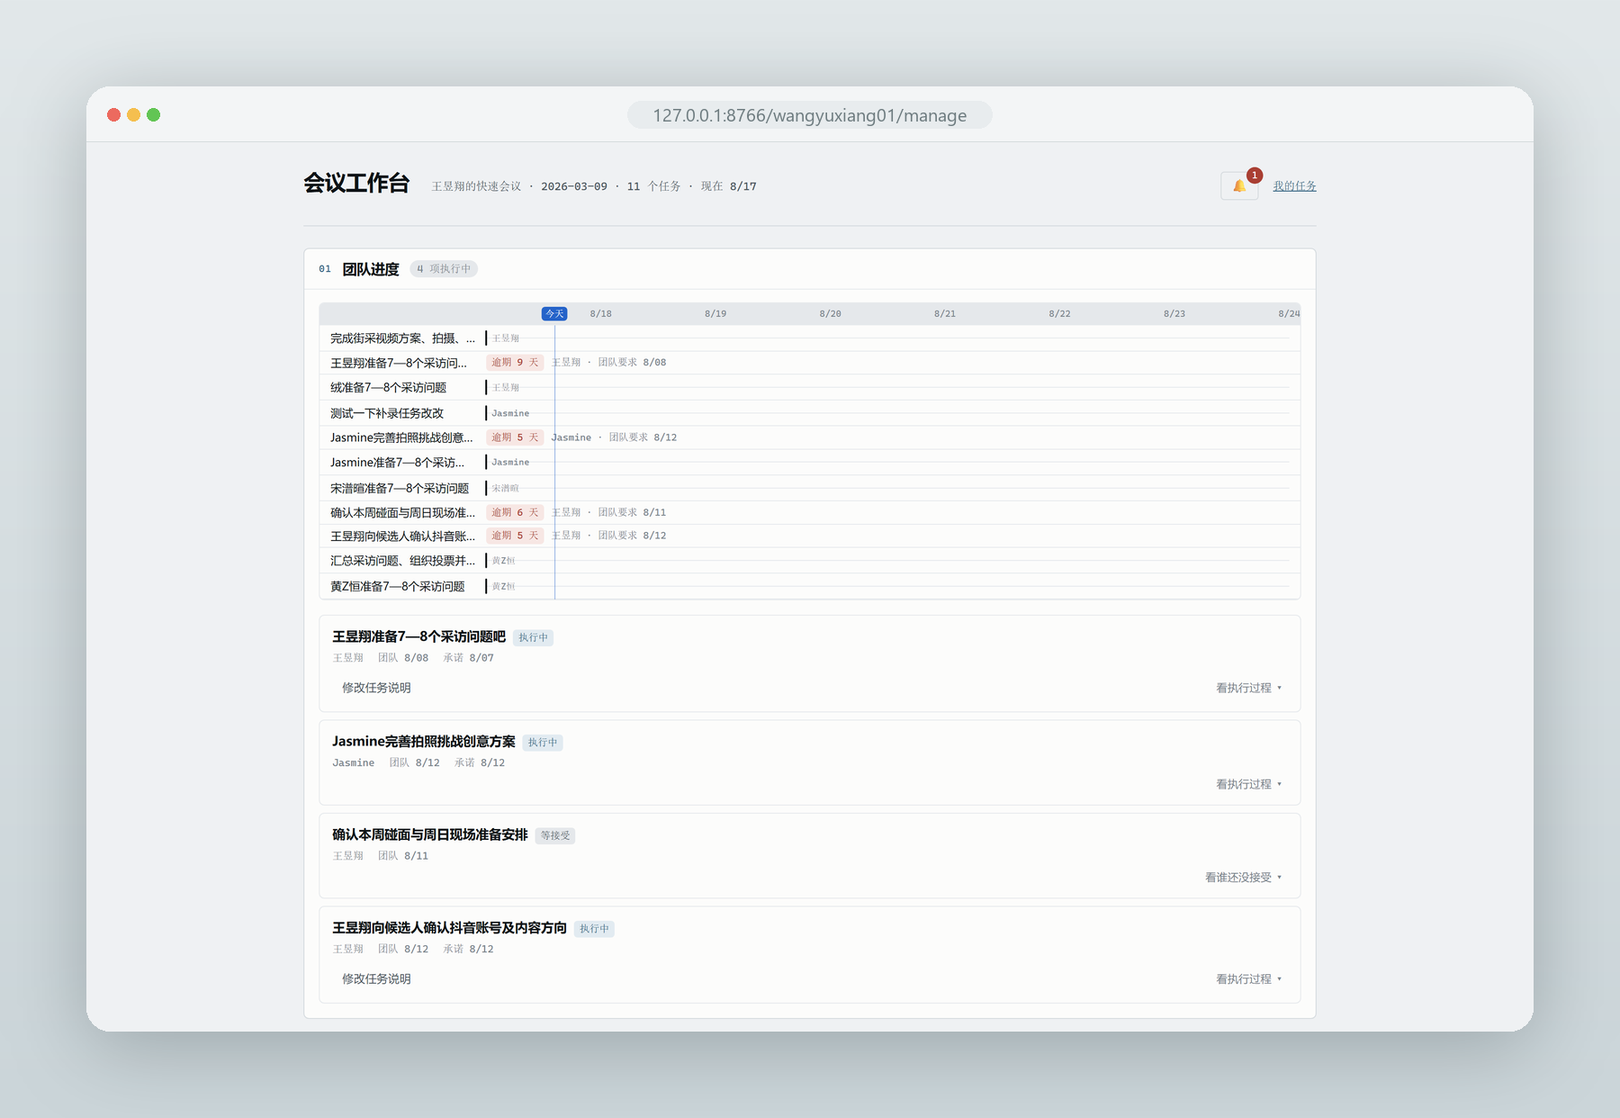
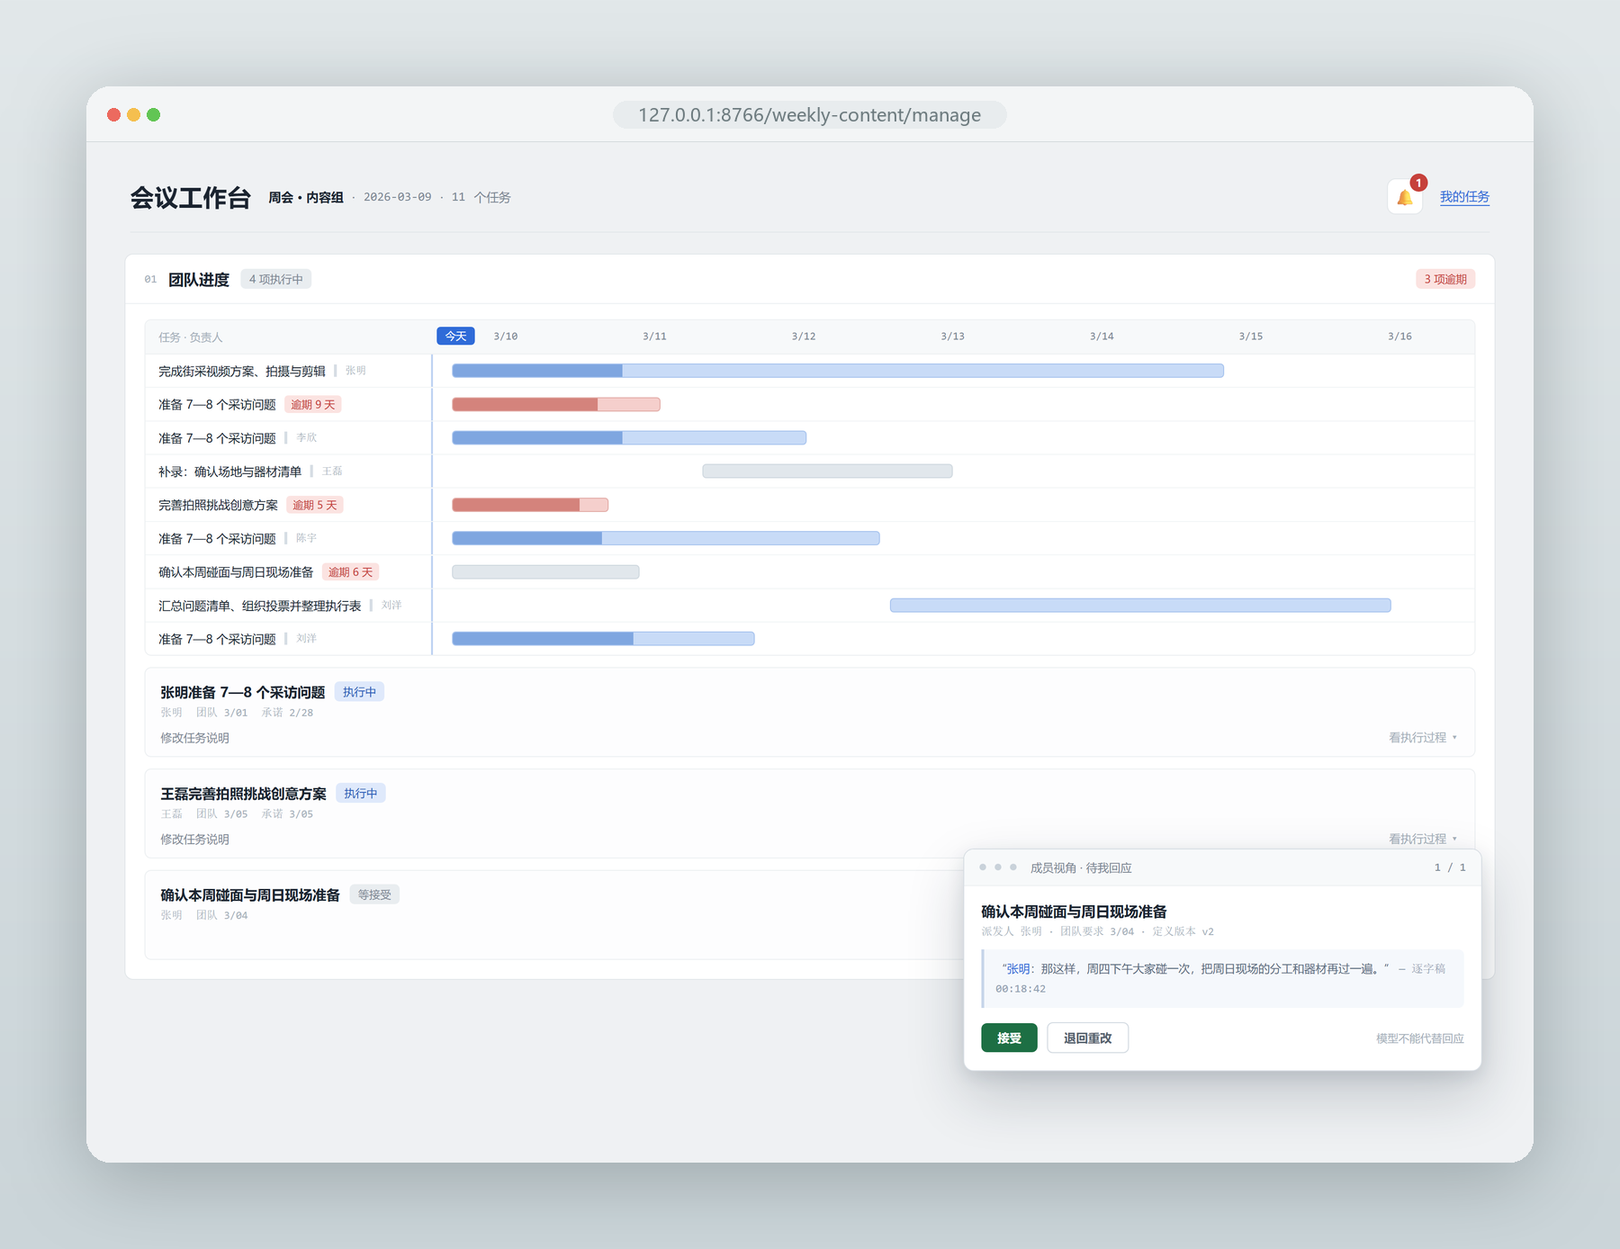
Replace the screenshots with a mock of a team that does not exist
The two images were real captures of a real meeting, so they carried five
colleagues' names, their overdue tasks and a verbatim line from the
transcript. This repository is public. The .gitignore already refuses
meeting_gold_*.json and fixtures/harvested/ for exactly that reason --
a screenshot walked the same content in through the front door.

Both images are now rebuilt from HTML in the product's own visual
language, filled with an invented content team. Nothing is blurred or
painted over, because a redaction still tells you a redaction happened;
there is simply no real person in the frame.

The coordinator view gained the thing the capture was missing: the
timeline had no bars in it, so the page read as an empty product. It now
shows work in flight, overdue, and waiting -- and a member's dispatch
card sits over the corner of it, carrying the source quote the task came
from and the accept-or-return control beside the words the model is not
allowed to press.

Rendered width drops to 820 so the smaller files actually render smaller.

diff --git a/README.md b/README.md
@@ -20,7 +20,7 @@ Recall-first · Human-gated · Versioned · Recoverable · Self-hosted
 </div>
 
 <p align="center">
-  <img src="docs/assets/coordinator-workbench.png" width="920" alt="会议负责人工作台：团队任务时间线、派发、验收与终稿" />
+  <img src="docs/assets/coordinator-workbench.png" width="820" alt="会议负责人工作台：团队任务时间线、派发、验收与终稿" />
 </p>
 
 <p align="center"><sub>🧭 <b>负责人视角</b> · 在同一条会议协作链中查看团队进度、补录与派发任务、验收成果并批准终稿</sub></p>
@@ -72,7 +72,7 @@ python -m collab_agent serve
 | 🔭 **系统管理员**           | Agent 运行记录、模型上下文、Token 消耗、外发结果、审计记录和版本来源 | 在 Observatory 中检查系统为什么采取某一步、是否恢复成功以及消息是否重复发送；不修改业务状态  |
 
 <p align="center">
-  <img src="docs/assets/participant-workbench.png" width="920" alt="参与者个人任务工作台：待处理事项、个人任务与协作偏好" />
+  <img src="docs/assets/participant-workbench.png" width="820" alt="参与者个人任务工作台：待处理事项、个人任务与协作偏好" />
 </p>
 
 <p align="center"><sub>👤 参与者视角：只处理与自己有关的派发、协作和贡献；待回应事项集中出现，个人协作偏好由本人确认后再提供给同事。</sub></p>
